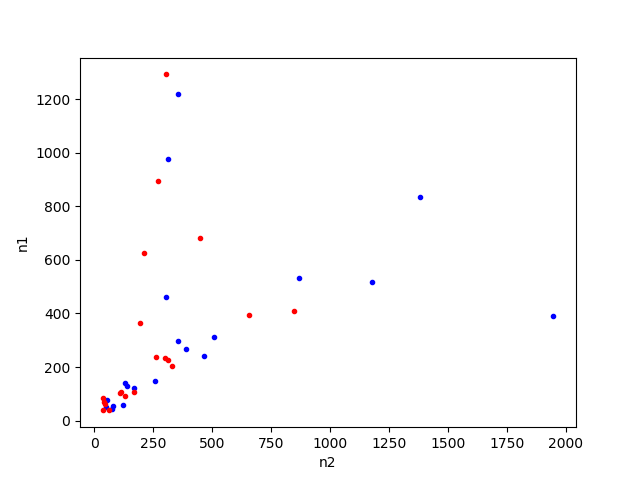
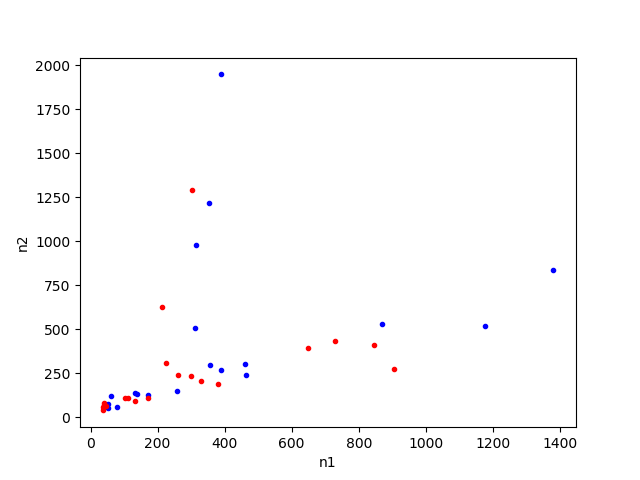
Model Verification

diff --git a/Model Verification/main.py b/Model Verification/main.py
@@ -206,8 +206,8 @@ def main():
         getNK(path + '/' + files, files, startTime + (frac[2] * (endTime - startTime)), frac[2])
     plt.plot(actual_n1_list, actual_n2_list, '.', color='b')
     plt.plot(expected_n1_list, expected_n2_list, '.', color='r')
-    plt.ylabel('n1')
-    plt.xlabel('n2')
+    plt.ylabel('n2')
+    plt.xlabel('n1')
     plt.savefig("graph.png")
 
 main()
